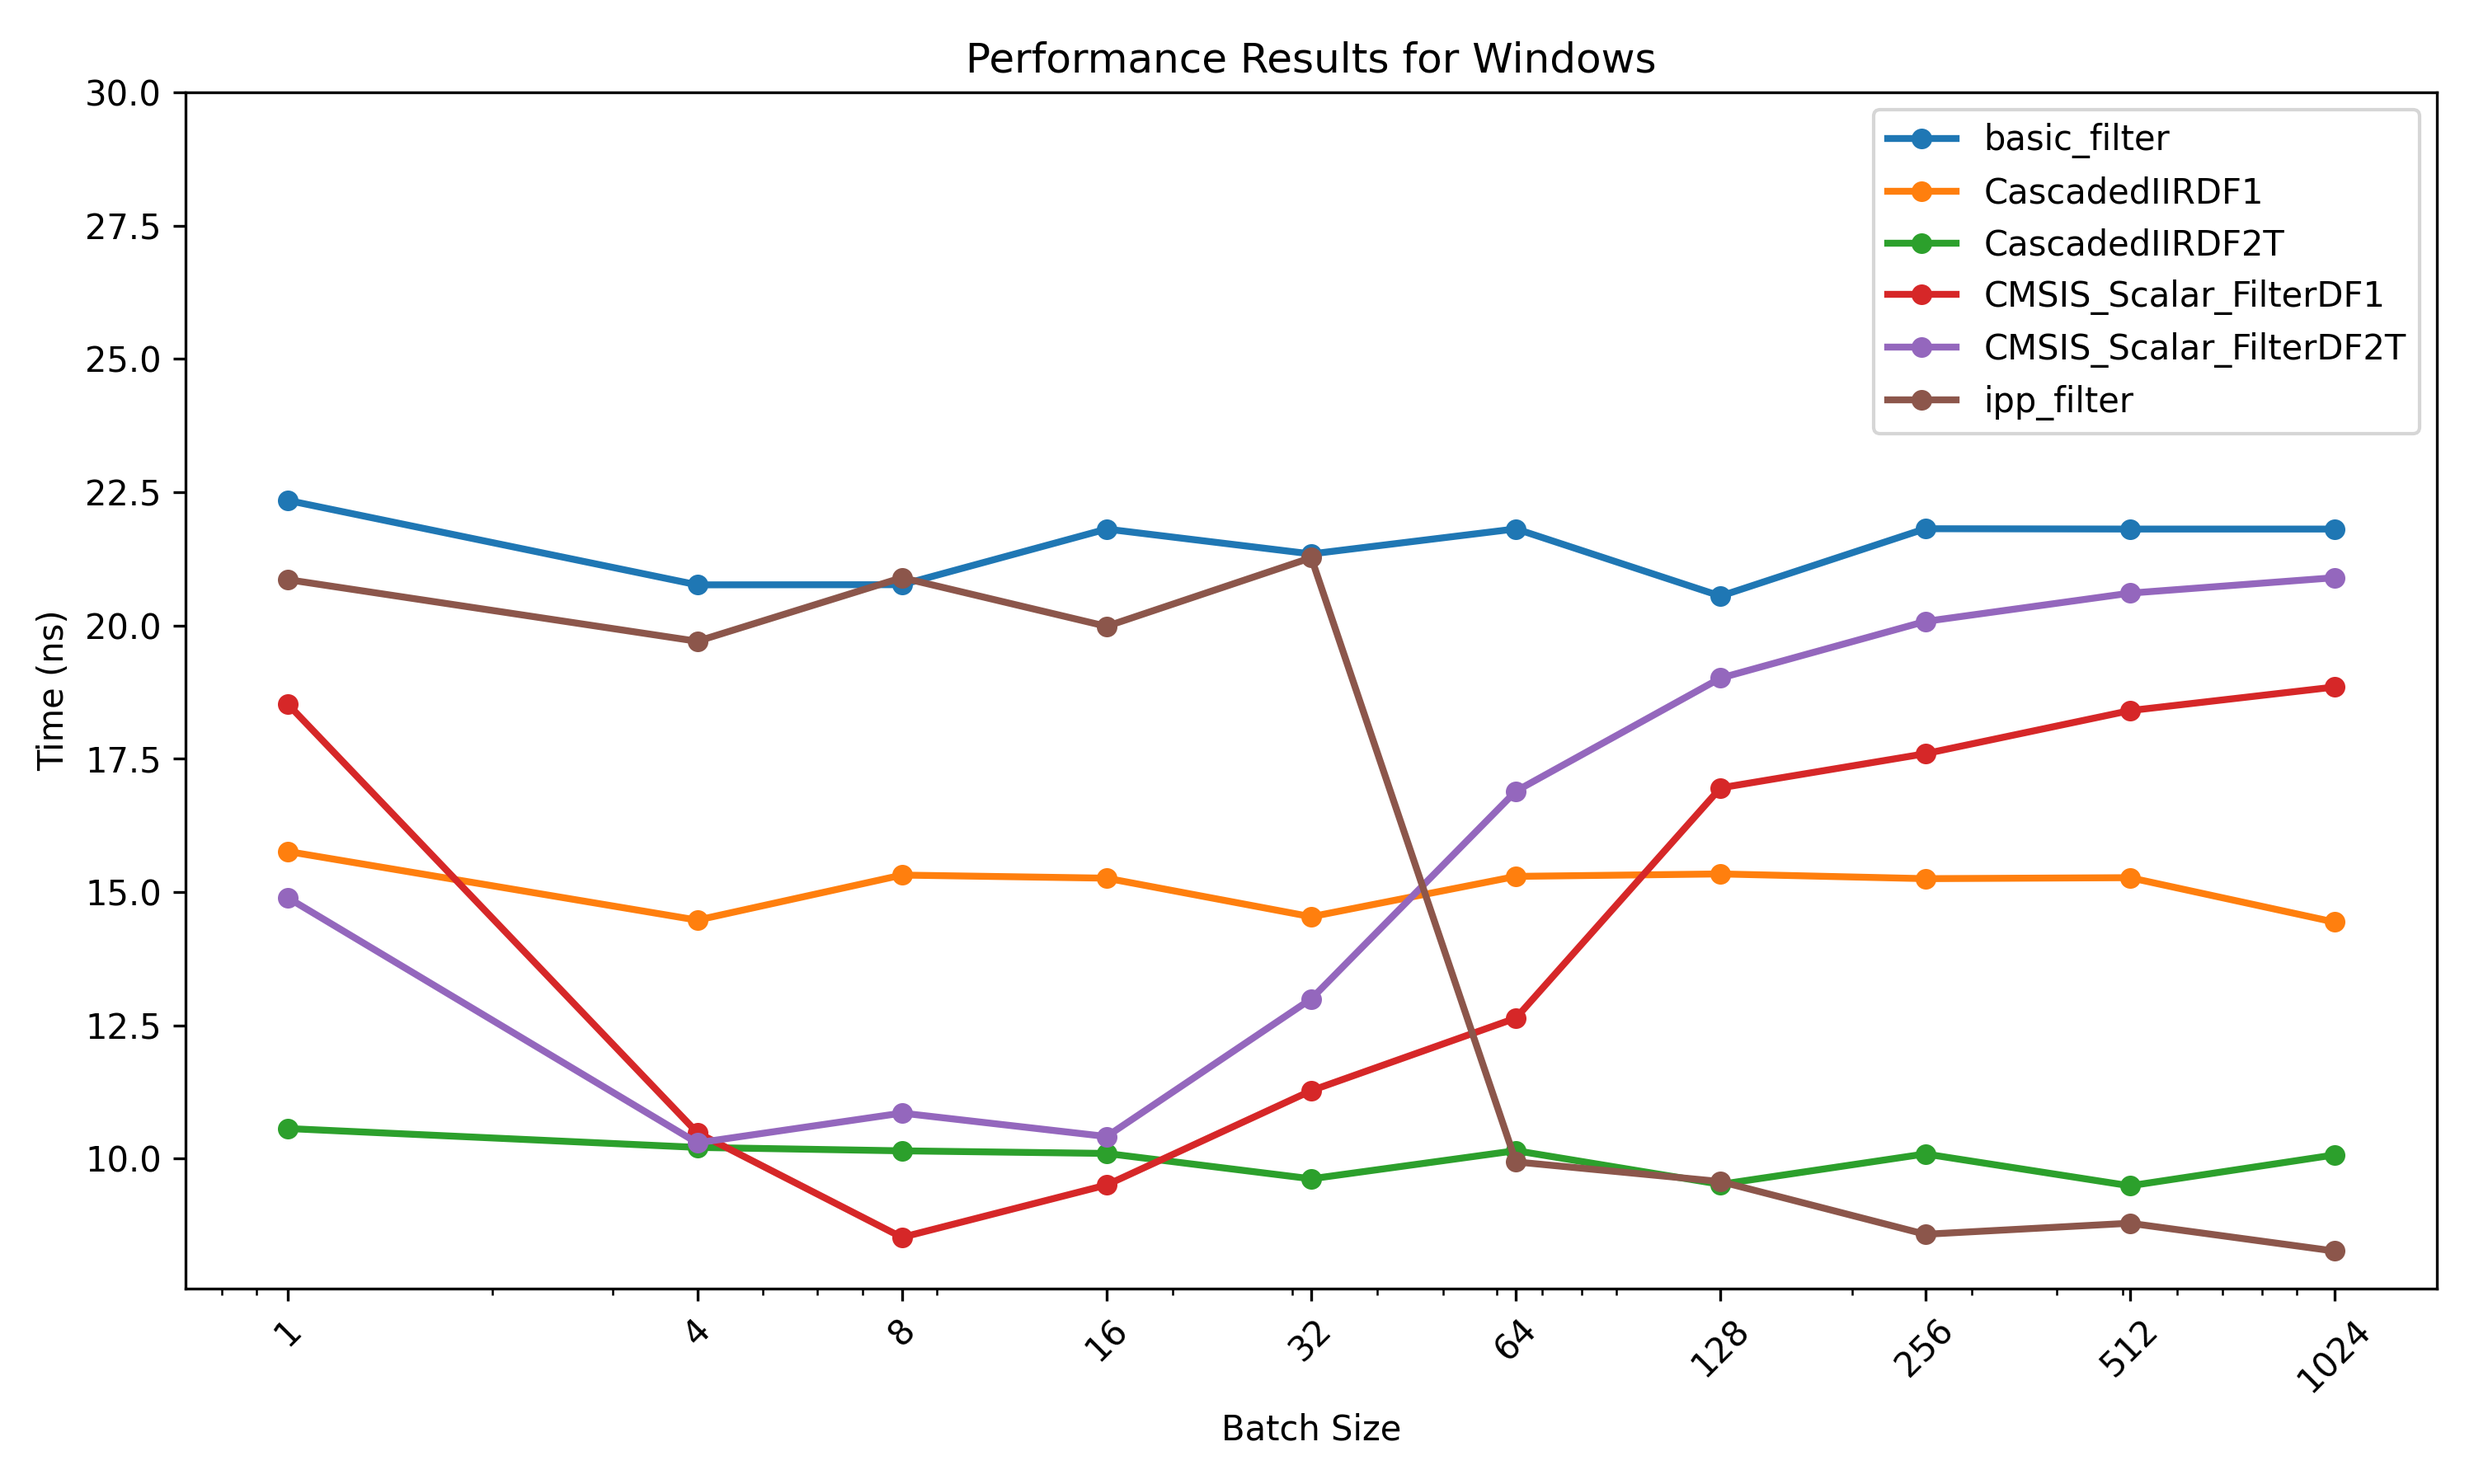
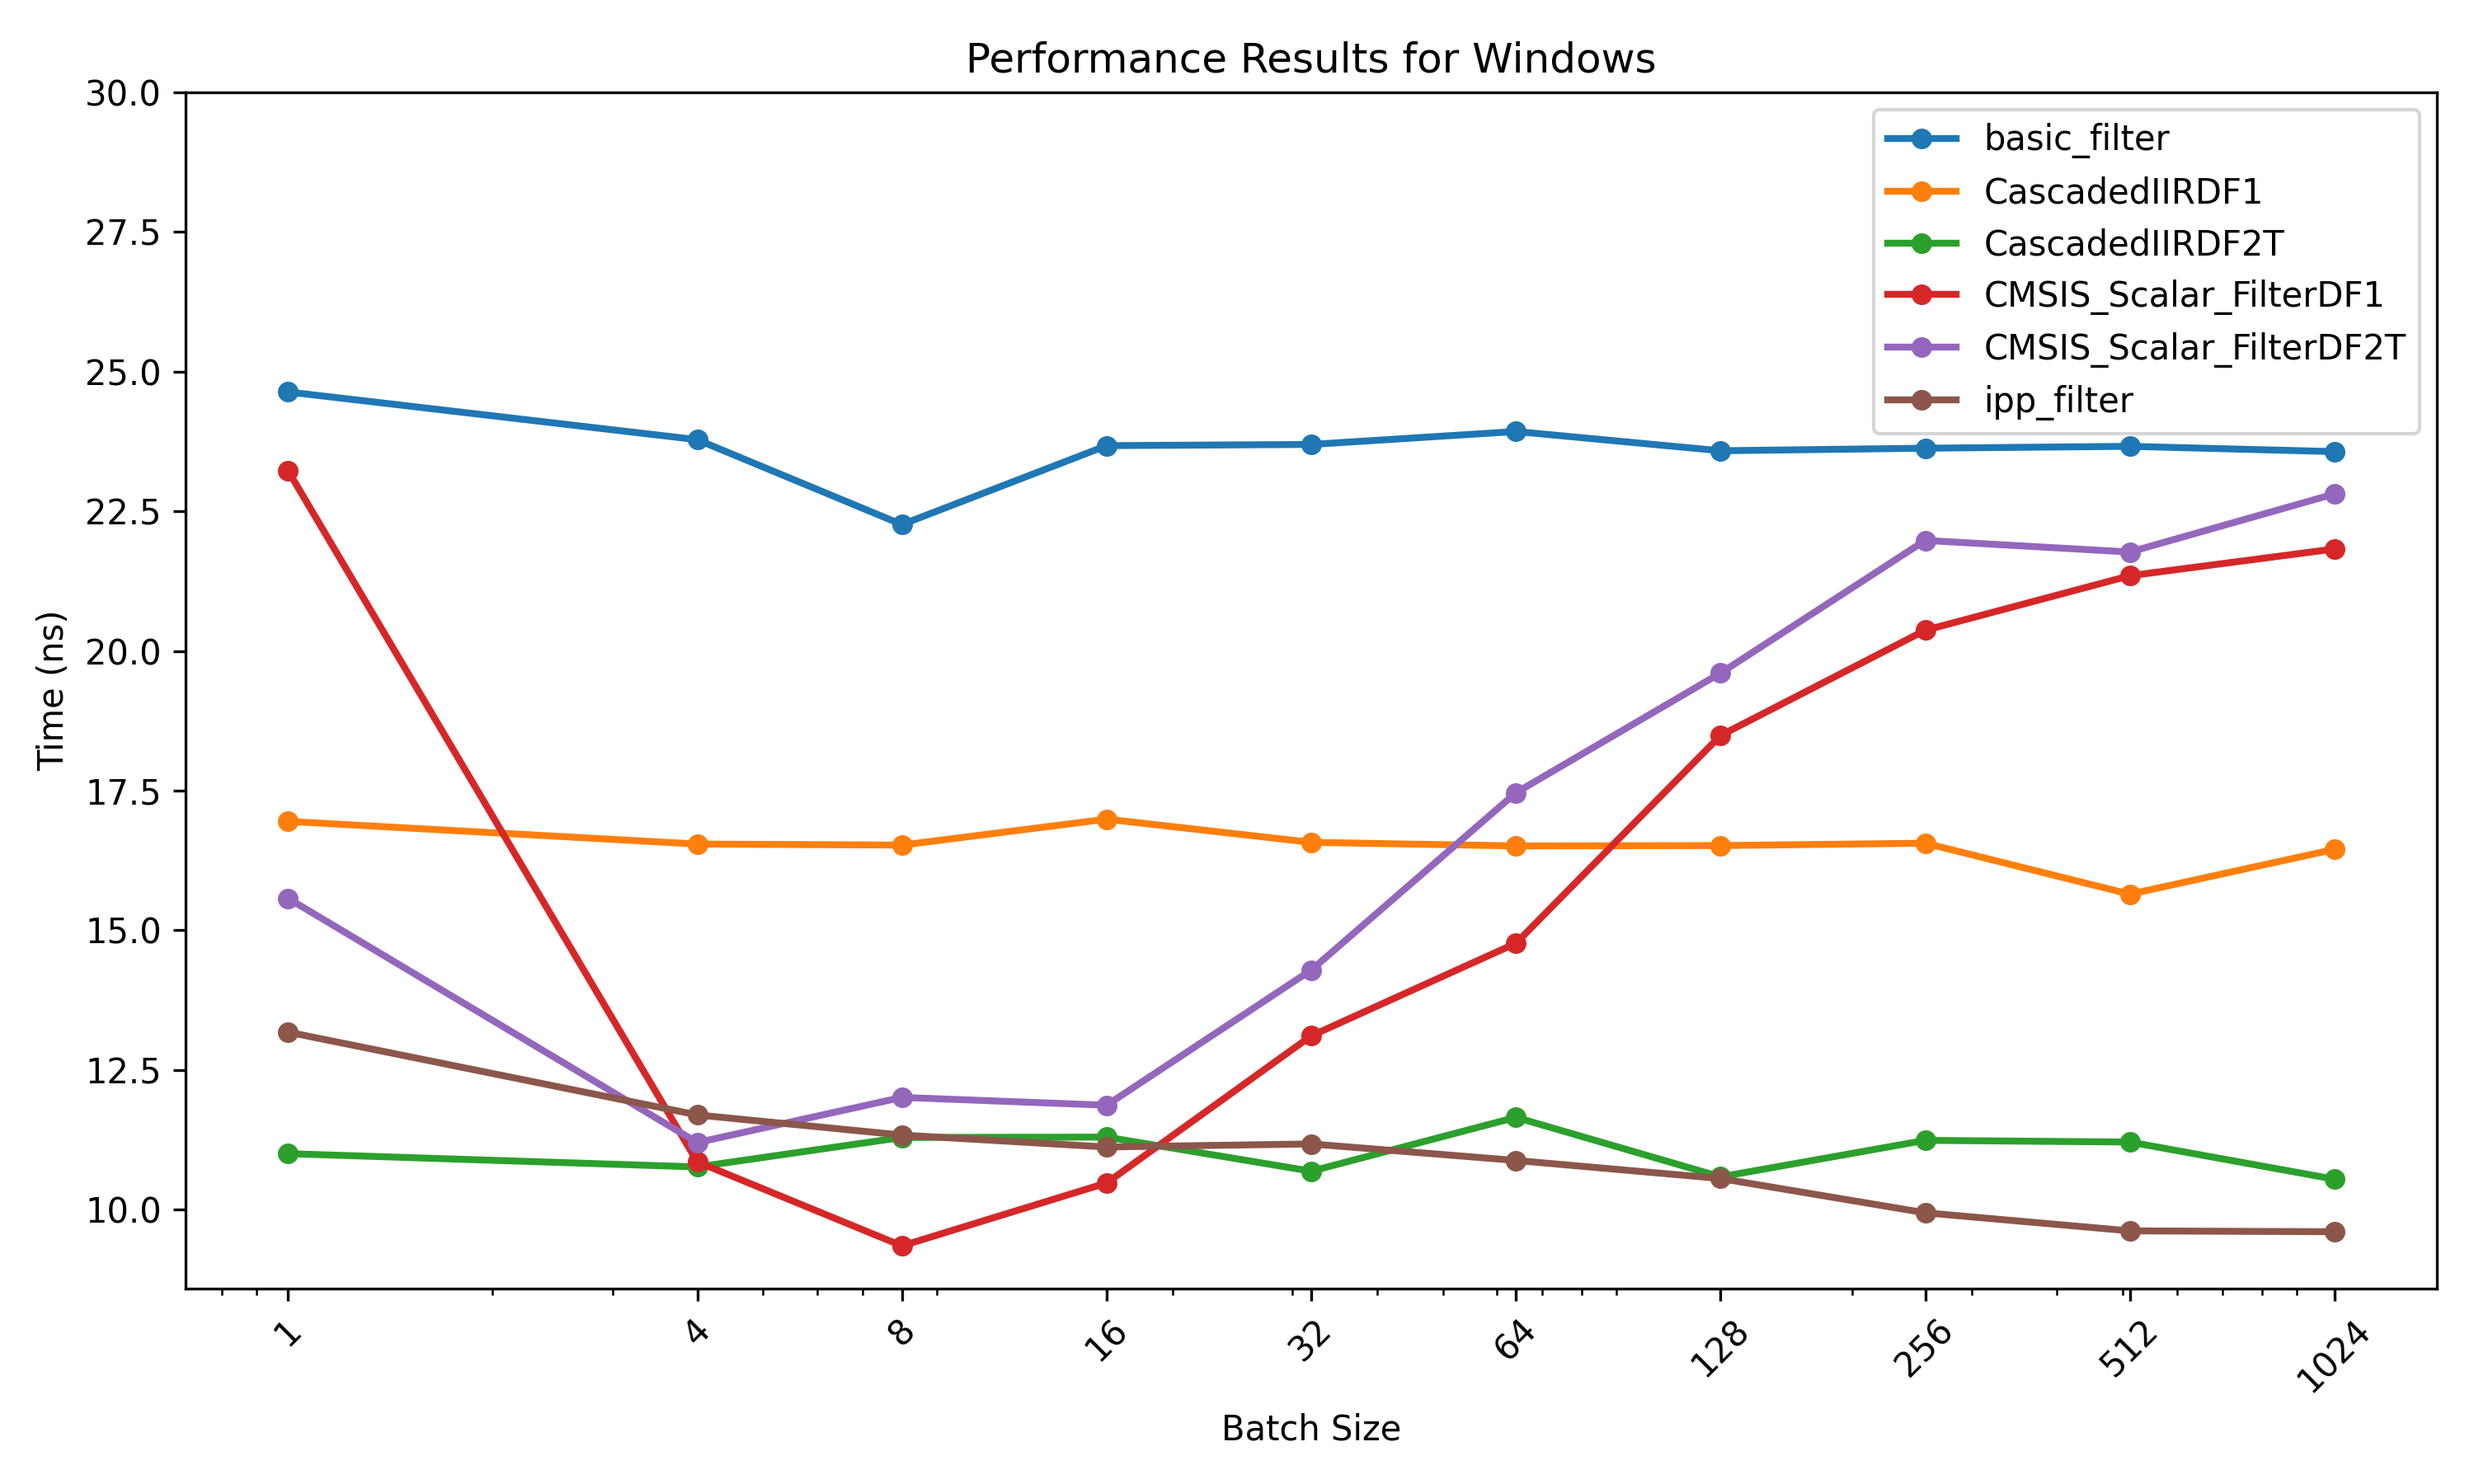
Update windows perfs

diff --git a/readme.md b/readme.md
@@ -54,7 +54,4 @@ The following results where obtained by running the benchmark on an Intel i9-129
 
 Compiled with **Clang 20.1.3** with the `-O3` optimization flag.
 
-> [!NOTE]
-> The IPP implementation is struggling with a block size less than 64 but if a dummy biquad is added to the filter, to bring its order to 12, the performance becomes linear at around 10 ns. It seems that the number of cascaded biquads needs to be a multiple of 2 for the IPP performance to be optimal. Needs to be investigated further.
-
 ![Benchmark Results](results/perf_results_win32.png)
